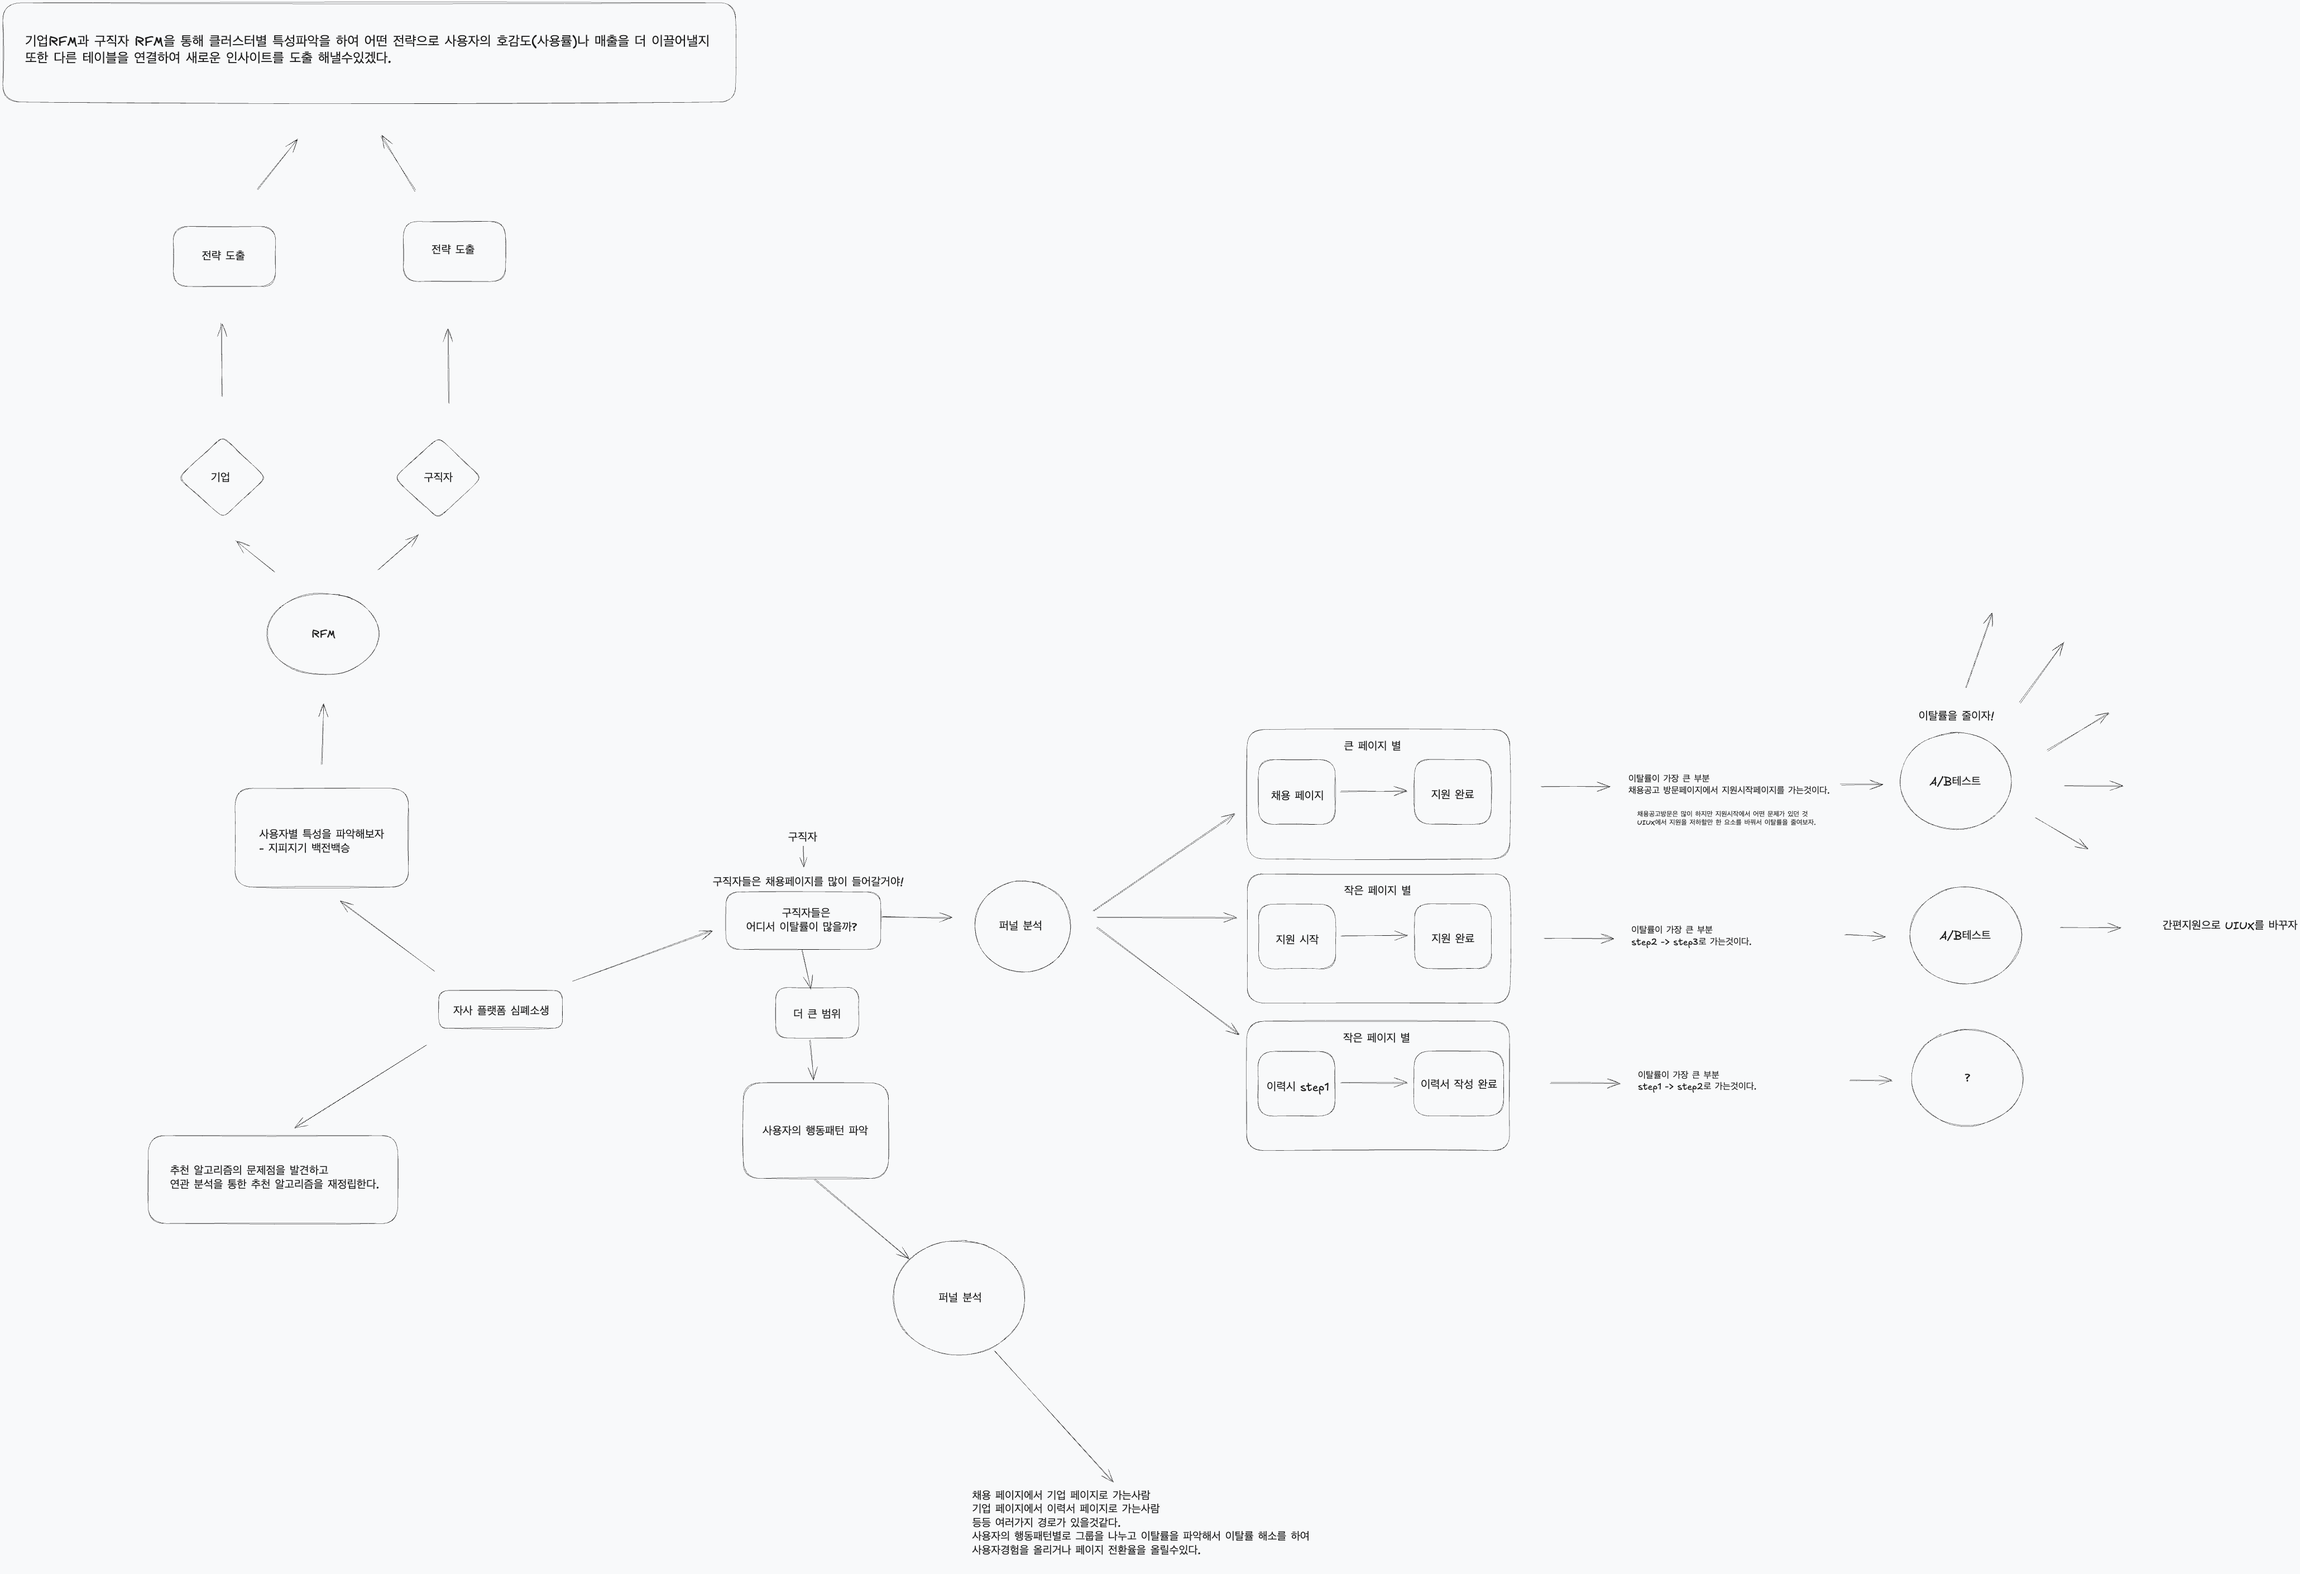
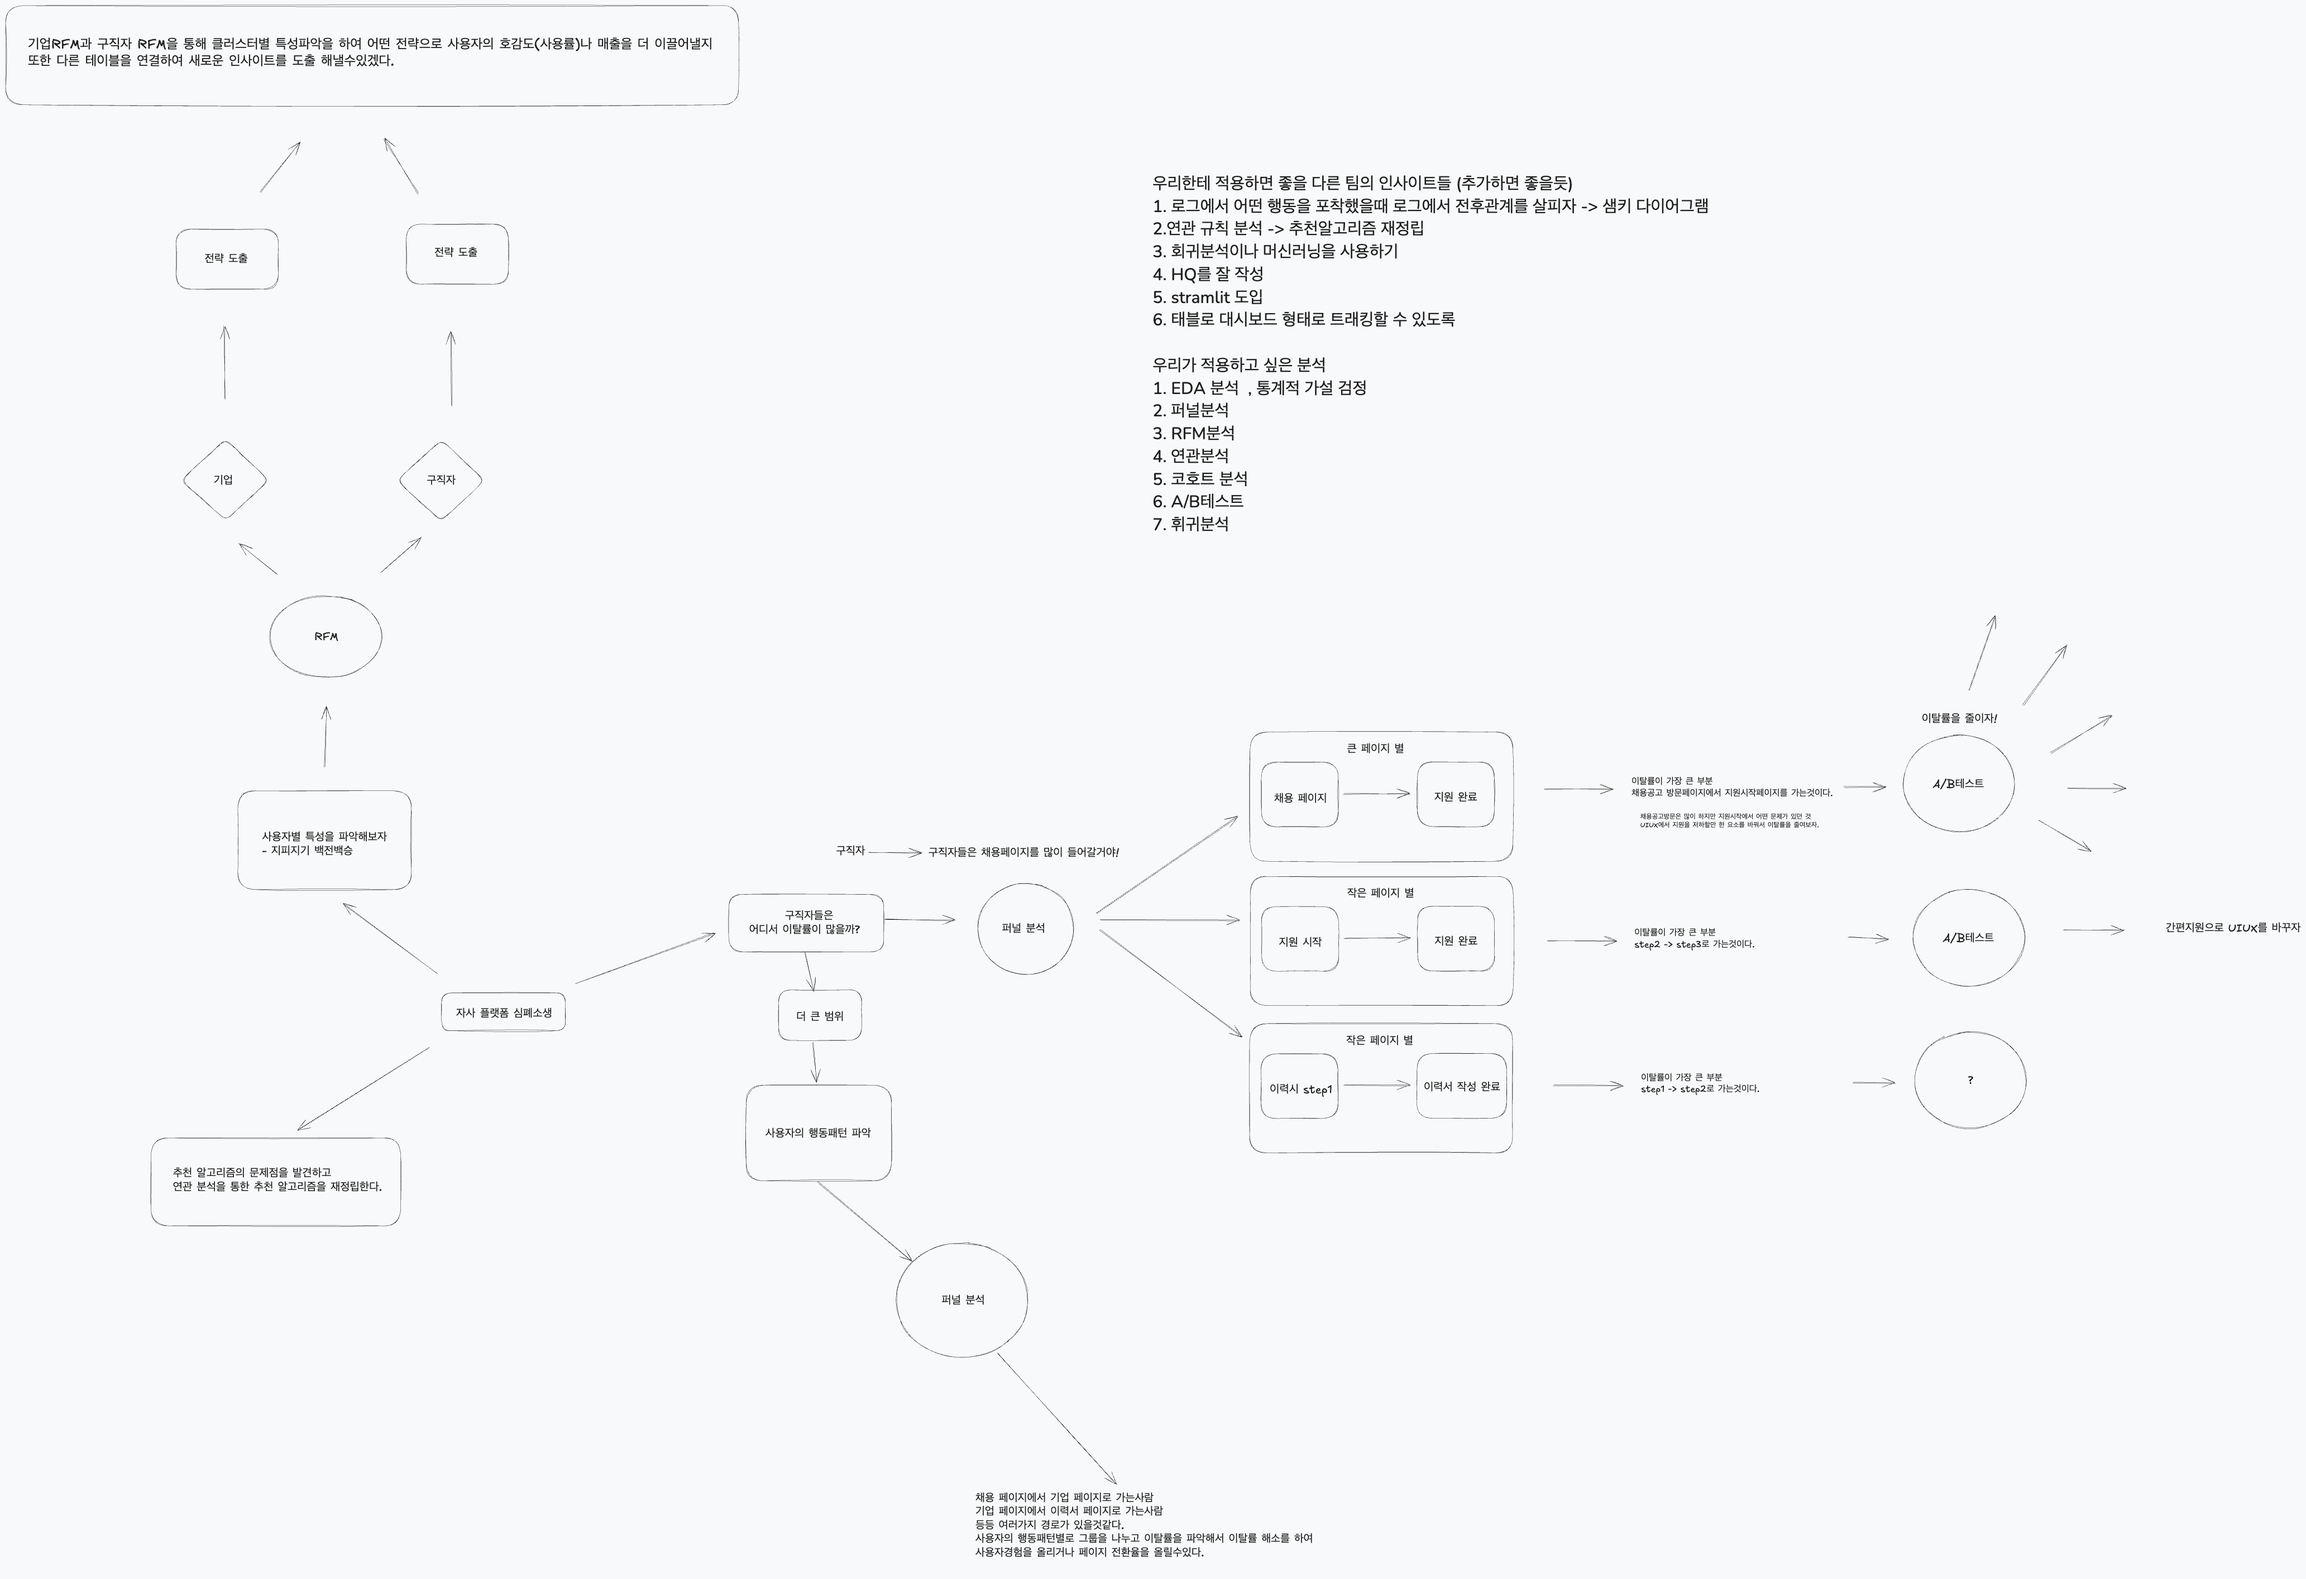
vault backup: 2025-01-20 16:47:29

diff --git a/Excalidraw/중급 프로젝트 플로우.md b/Excalidraw/중급 프로젝트 플로우.md
@@ -92,6 +92,23 @@ RFM ^bvobnUpT
 추천 알고리즘의 문제점을 발견하고 
 연관 분석을 통한 추천 알고리즘을 재정립한다. ^Zc13Jt7t
 
+우리한테 적용하면 좋을 다른 팀의 인사이트들 (추가하면 좋을듯)
+1. 로그에서 어떤 행동을 포착했을때 로그에서 전후관계를 살피자 -> 샘키 다이어그램
+2.연관 규칙 분석 -> 추천알고리즘 재정립
+3. 회귀분석이나 머신러닝을 사용하기
+4. HQ를 잘 작성
+5. stramlit 도입
+6. 태블로 대시보드 형태로 트래킹할 수 있도록
+
+우리가 적용하고 싶은 분석
+1. EDA 분석  , 통계적 가설 검정
+2. 퍼널분석
+3. RFM분석
+4. 연관분석
+5. 코호트 분석
+6. A/B테스트
+7. 휘귀분석 ^qadzWS4G
+
 %%
 ## Drawing
 ```compressed-json
@@ -129,236 +146,246 @@ tyTTtqsGdp3KXY9ovhUEvLlJ3YX7sh3pYHKgPZTDEo8A/4QBLw9hfL1gk74EdTSidBA7wog6AHIr867p
 
[1 lines of base64/hex data omitted]
 
[2 lines of base64/hex data omitted]
 
[2 lines of base64/hex data omitted]
 
[2 lines of base64/hex data omitted]
 
[2 lines of base64/hex data omitted]
 
[2 lines of base64/hex data omitted]
 
[2 lines of base64/hex data omitted]
 
[2 lines of base64/hex data omitted]
 
[2 lines of base64/hex data omitted]
 
[2 lines of base64/hex data omitted]
 
[2 lines of base64/hex data omitted]
 
[2 lines of base64/hex data omitted]
 
[2 lines of base64/hex data omitted]
 
[2 lines of base64/hex data omitted]
 
[2 lines of base64/hex data omitted]
 
[2 lines of base64/hex data omitted]
 
[2 lines of base64/hex data omitted]
 
[2 lines of base64/hex data omitted]
 
[2 lines of base64/hex data omitted]
 
[2 lines of base64/hex data omitted]
 
[2 lines of base64/hex data omitted]
 
[2 lines of base64/hex data omitted]
 
[2 lines of base64/hex data omitted]
 
[2 lines of base64/hex data omitted]
 
[2 lines of base64/hex data omitted]
 
[2 lines of base64/hex data omitted]
 
[2 lines of base64/hex data omitted]
 
[2 lines of base64/hex data omitted]
 
[2 lines of base64/hex data omitted]
 
[2 lines of base64/hex data omitted]
 
[2 lines of base64/hex data omitted]
 
[2 lines of base64/hex data omitted]
 
[2 lines of base64/hex data omitted]
 
[2 lines of base64/hex data omitted]
 
[2 lines of base64/hex data omitted]
 
[2 lines of base64/hex data omitted]
 
[2 lines of base64/hex data omitted]
 
[2 lines of base64/hex data omitted]
 
[2 lines of base64/hex data omitted]
 
[2 lines of base64/hex data omitted]
 
[2 lines of base64/hex data omitted]
 
[2 lines of base64/hex data omitted]
 
[2 lines of base64/hex data omitted]
 
[2 lines of base64/hex data omitted]
 
[2 lines of base64/hex data omitted]
 
[2 lines of base64/hex data omitted]
 
[2 lines of base64/hex data omitted]
 
[2 lines of base64/hex data omitted]
 
[2 lines of base64/hex data omitted]
 
[2 lines of base64/hex data omitted]
 
[2 lines of base64/hex data omitted]
 
[2 lines of base64/hex data omitted]
 
[2 lines of base64/hex data omitted]
 
[2 lines of base64/hex data omitted]
 
[2 lines of base64/hex data omitted]
 
[2 lines of base64/hex data omitted]
 
[2 lines of base64/hex data omitted]
 
[2 lines of base64/hex data omitted]
 
[2 lines of base64/hex data omitted]
 
[2 lines of base64/hex data omitted]
 
[2 lines of base64/hex data omitted]
 
[2 lines of base64/hex data omitted]
 
[2 lines of base64/hex data omitted]
 
[2 lines of base64/hex data omitted]
 
[2 lines of base64/hex data omitted]
 
[2 lines of base64/hex data omitted]
 
[2 lines of base64/hex data omitted]
 
[2 lines of base64/hex data omitted]
 
[2 lines of base64/hex data omitted]
 
[2 lines of base64/hex data omitted]
 
[2 lines of base64/hex data omitted]
 
[2 lines of base64/hex data omitted]
 
[2 lines of base64/hex data omitted]
 
[2 lines of base64/hex data omitted]
 
[2 lines of base64/hex data omitted]
 
[2 lines of base64/hex data omitted]
 
[2 lines of base64/hex data omitted]
 
[2 lines of base64/hex data omitted]
 
[2 lines of base64/hex data omitted]
 
[2 lines of base64/hex data omitted]
 
[2 lines of base64/hex data omitted]
 
[2 lines of base64/hex data omitted]
 
[2 lines of base64/hex data omitted]
 
[2 lines of base64/hex data omitted]
 
[2 lines of base64/hex data omitted]
 
[2 lines of base64/hex data omitted]
 
[2 lines of base64/hex data omitted]
 
[2 lines of base64/hex data omitted]
 
[2 lines of base64/hex data omitted]
 
[2 lines of base64/hex data omitted]
 
[2 lines of base64/hex data omitted]
 
[2 lines of base64/hex data omitted]
 
[2 lines of base64/hex data omitted]
 
[2 lines of base64/hex data omitted]
 
[2 lines of base64/hex data omitted]
 
[2 lines of base64/hex data omitted]
 
[2 lines of base64/hex data omitted]
 
[2 lines of base64/hex data omitted]
 
[2 lines of base64/hex data omitted]
 
[2 lines of base64/hex data omitted]
 
[2 lines of base64/hex data omitted]
 
[2 lines of base64/hex data omitted]
 
[2 lines of base64/hex data omitted]
 
[2 lines of base64/hex data omitted]
 
[2 lines of base64/hex data omitted]
 
[2 lines of base64/hex data omitted]
 
[2 lines of base64/hex data omitted]
 
[2 lines of base64/hex data omitted]
 
[2 lines of base64/hex data omitted]
 
[2 lines of base64/hex data omitted]
 
[2 lines of base64/hex data omitted]
 
[2 lines of base64/hex data omitted]
 
[2 lines of base64/hex data omitted]
 
[2 lines of base64/hex data omitted]
 
[2 lines of base64/hex data omitted]
 
[2 lines of base64/hex data omitted]
 
[2 lines of base64/hex data omitted]
+
[1 lines of base64/hex data omitted]
+
[1 lines of base64/hex data omitted]
+
[1 lines of base64/hex data omitted]
+
[1 lines of base64/hex data omitted]
+
+lUmBR+0fjH7qU4icAHiJifYIC3B7UQ8CAA==
 ```
 %%
